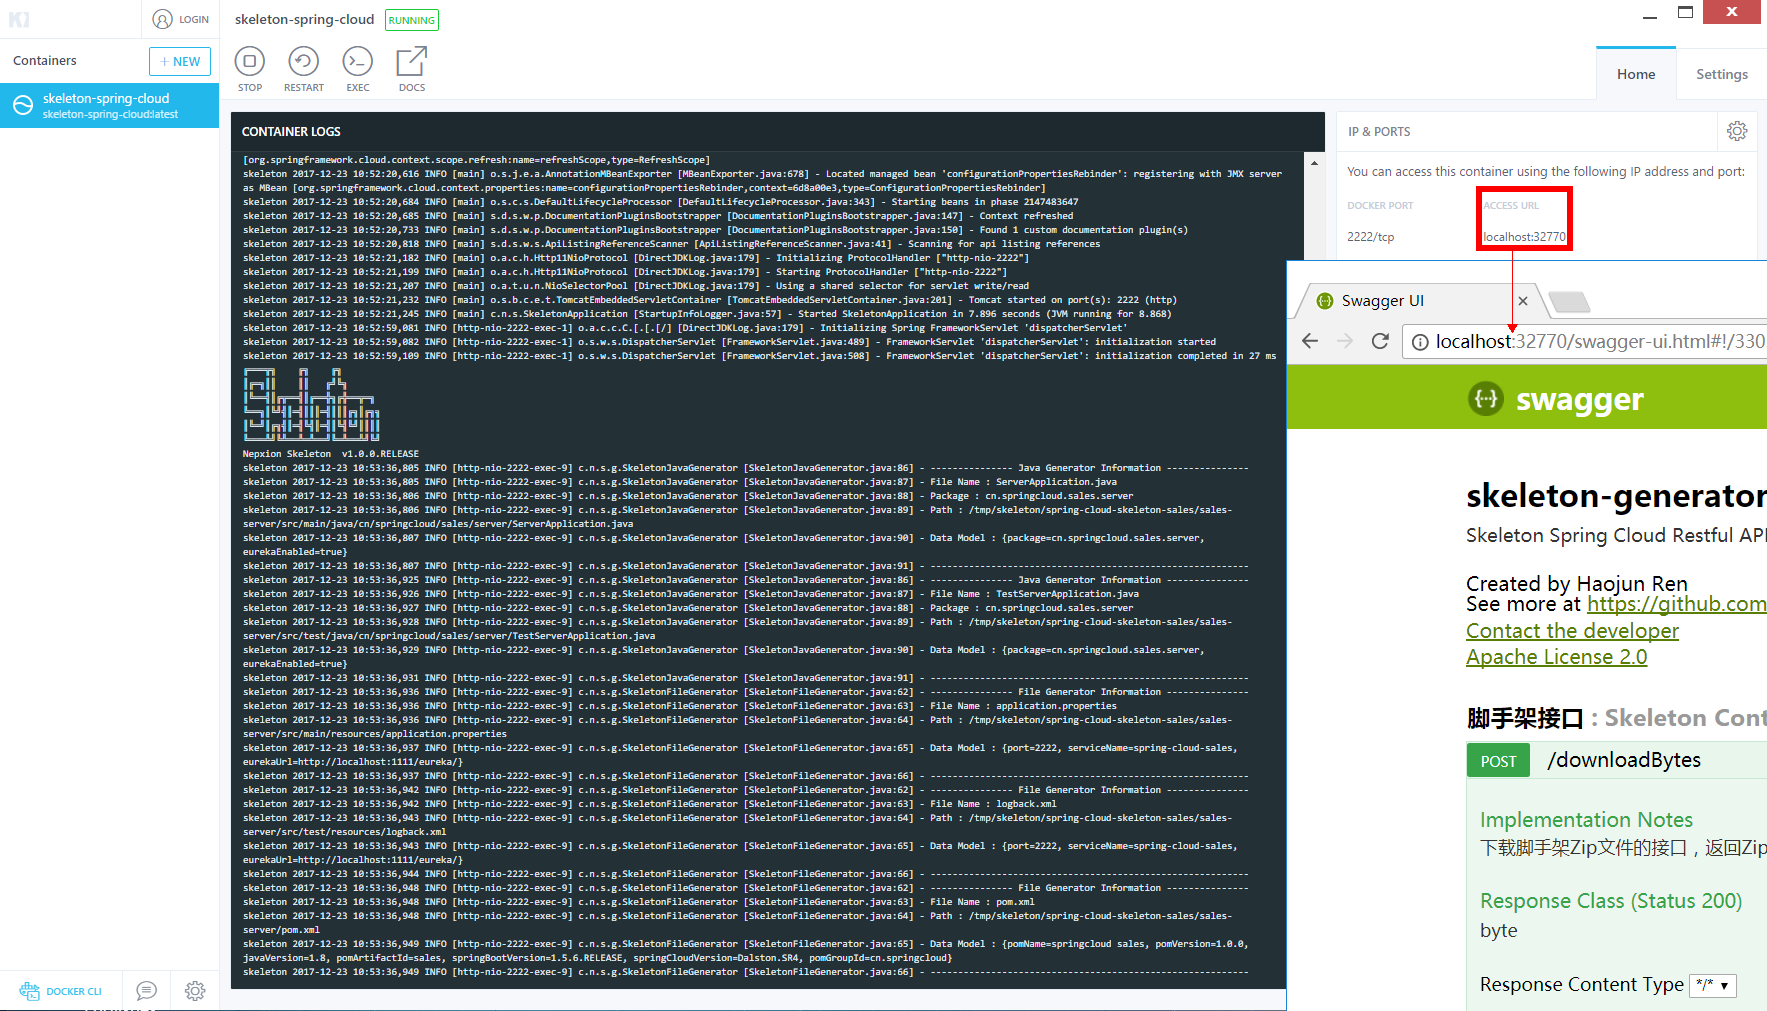
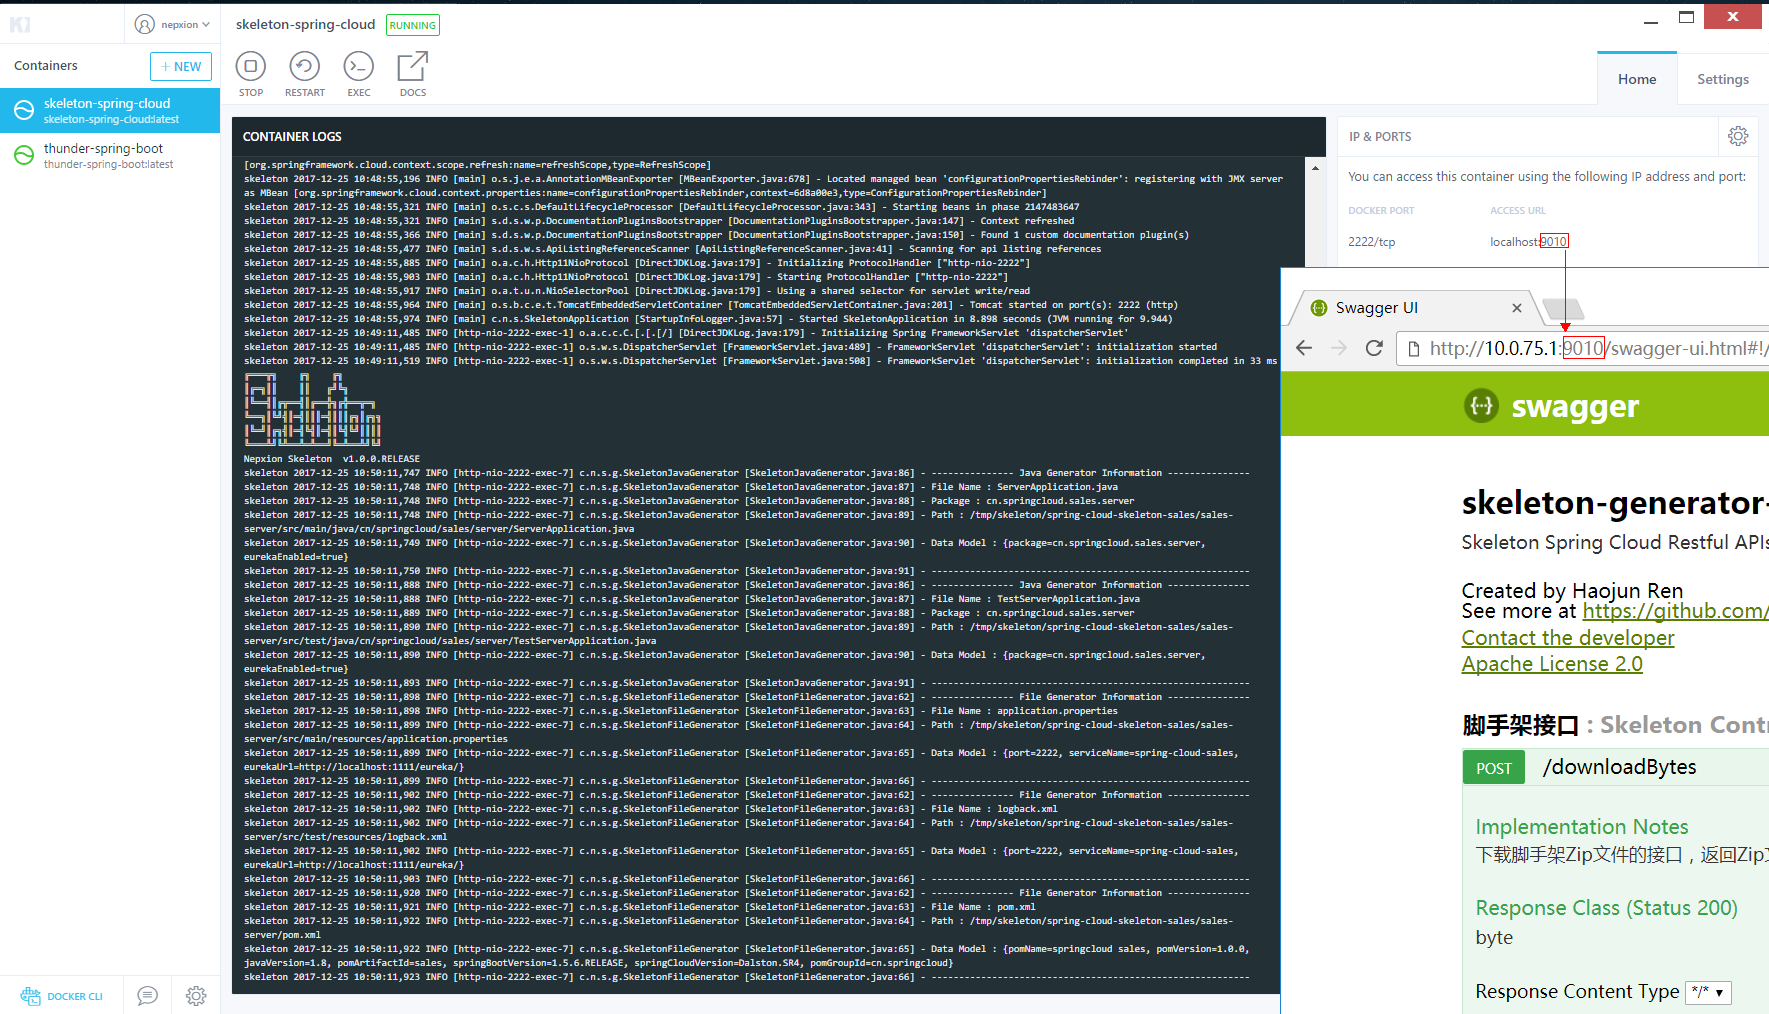
修改介绍

diff --git a/README.md b/README.md
@@ -11,7 +11,7 @@ Nepxion Skeleton是一款基于FreeMarker的对任何文本格式的代码和文
     3. 使用者只需要关注模板原型文件的编辑（遵循FreeMarker语法），并设置动态变量
     4. 使用者根据模板原型文件创建Generator类，进行动态创建和替换
     5. 基于Spring Cloud的调用，Spring Cloud中国社区的spring-cloud-codegen将采用本框架，参考https://github.com/SpringCloud/spring-cloud-codegen
-    6. 支持Docker化，使用方式参考https://github.com/Nepxion/Thunder/tree/master/thunder-spring-boot-docker-example
+    6. 支持Docker化一键部署
     7. 支持Swagger，打开http://localhost:2222/swagger-ui.html访问
 
 ![Alt text](https://github.com/Nepxion/Skeleton/blob/master/Docker.jpg)
@@ -170,3 +170,11 @@ Spring Cloud接口
     3. 下载脚手架Zip文件的接口，返回Zip文件的ResponseEntity类型
     @RequestMapping(value = "/downloadResponse", method = RequestMethod.POST)
     public ResponseEntity<Resource> downloadResponse(@RequestBody String config)
+
+Spring Cloud容器
+
+    1. 在根目录下执行install-docker.bat里的语句，一键创建镜像和容器。等待一段时间后，在当前Dos窗口直接模拟运行Spring Boot的可执行包，是为了验证镜像是否制作正确
+    2. 在所选容器的的Settings->Hostname/Ports界面，端口已经自动映射好了，点击SAVE(很重要)让端口映射生效，容器将自动重启，见下图
+    3. 具体使用方式，请参考https://github.com/Nepxion/Thunder/tree/master/thunder-spring-boot-docker-example	
+
+![Alt text](https://github.com/Nepxion/Thunder/blob/master/thunder-spring-boot-docker-example/Docker2.jpg)
